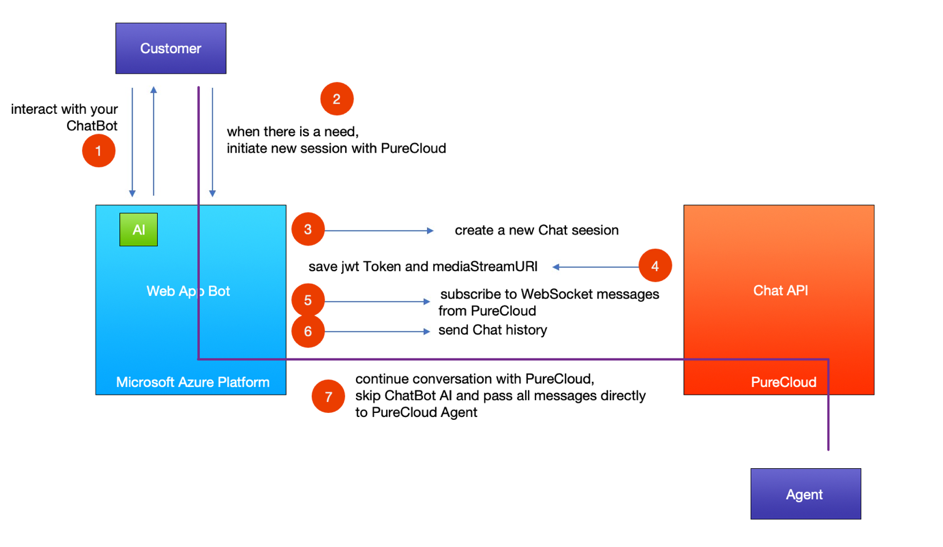
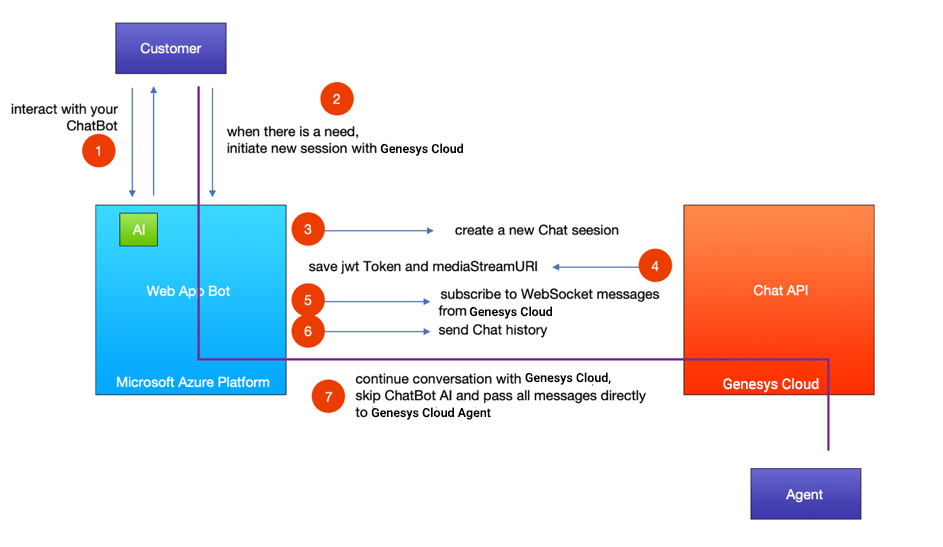
rebrand: 3rd Party Chatbots with Genesys Cloud

diff --git a/source/2019-03-07-3rd-party-chatbots-with-purecloud/index.html.md b/source/2019-03-07-3rd-party-chatbots-with-purecloud/index.html.md
@@ -1,28 +1,28 @@
 ---
-title: 3rd Party Chatbots with PureCloud
+title: 3rd Party Chatbots with Genesys Cloud
 tags: devcenter, howwedoit
 date: 2019-03-07
 author: daniel.szlaski@genesys.com
 ---
 
 
-PureCloud will be introducting [Guest Chat APIs](/api/webchat/guestchat.html) in an upcoming update. They are currently in beta as of this writing. Using these Guest Chat APIs and a little bit of development you can create a fully functional Chat Bot integrated with PureCloud. This will provide a seamless experience for the end Customer (capability: switching between the Bot engine and a real Agent) along with access to multiple channels like Skype, Facebook Messenger, Slack and more.
+Genesys Cloud will be introducting [Guest Chat APIs](/api/webchat/guestchat.html) in an upcoming update. They are currently in beta as of this writing. Using these Guest Chat APIs and a little bit of development you can create a fully functional Chat Bot integrated with Genesys Cloud. This will provide a seamless experience for the end Customer (capability: switching between the Bot engine and a real Agent) along with access to multiple channels like Skype, Facebook Messenger, Slack and more.
 
 ![Bot and Agent View](side-by-side.png)
 
 <iframe width="987" height="564" src="https://www.youtube.com/embed/ZmQDvkmd0gg" frameborder="0" allow="accelerometer; autoplay; encrypted-media; gyroscope; picture-in-picture" allowfullscreen style="margin: 30px auto; display: block;"></iframe>
 
 This solution was built with the help of the Microsoft Bot Framework (hosted in Azure) used as the Web App Bot resource. Microsofts Bot Framework is capable of hosting a C# or NodeJS service that implements for the actual Bot logic. Artificial Intelligence (AI) / Dialog Recognition is built using the [Bot Framework SDK v4](https://docs.microsoft.com/en-us/azure/bot-service/?view=azure-bot-service-4.0). 
-The Bot connection to PureCloud is also handled from the same service, thanks to the Guest Chat API from PureCloud. Source code is available for free and you can clone it from this [BitBucket Repo](https://bitbucket.org/eccemea/mypurecloud-bot/src/master/).
+The Bot connection to Genesys Cloud is also handled from the same service, thanks to the Guest Chat API from Genesys Cloud. Source code is available for free and you can clone it from this [BitBucket Repo](https://bitbucket.org/eccemea/mypurecloud-bot/src/master/).
 
 ## Requirements
   
-* Enable the new Chat API in your PureCloud organization
+* Enable the new Chat API in your Genesys Cloud organization
 * Use alpha UI to be able to respond to the incoming messages from the Chat 
 * [Git](https://git-scm.com) required to edit / push your own version of the Bot
 * A Bitbucket / Github account
 * A queue to transfer your chat requests to
-* Create a Web Chat Deployment in your PureCloud organization. Please follow this [documentation](https://help.mypurecloud.com/articles/add-web-chat-deployment/) ink in case this is not present in your org
+* Create a Web Chat Deployment in your Genesys Cloud organization. Please follow this [documentation](https://help.mypurecloud.com/articles/add-web-chat-deployment/) ink in case this is not present in your org
 * If you want to use the Microsoft Azure Platform, create an account here: (https://portal.azure.com) 
 
 You can find more details about Microsoft Bot Service on this page [link](https://azure.microsoft.com/en-us/services/bot-service)
@@ -46,13 +46,13 @@ server.post('/api/messages', (req, res) => {
 });
 ```
 
-This is the place where all logic / AI should take place. One additional line is required to save history for conversation between Customer and Bot. Once the call is transferred to PureCloud, we will push it as a single message.
+This is the place where all logic / AI should take place. One additional line is required to save history for conversation between Customer and Bot. Once the call is transferred to Genesys Cloud, we will push it as a single message.
 
 ```{"language":"javascript"}
 this.conversationState.history.push('Bot:\t\t My response');
 ```
 
-Once you need to transfer the customer to a real Person (PureCloud agent), we will redirect requests to the "startChat()" function. It's important to pass the current context of the call since that service will send messages back to the customer every time it will receive message in PureCloud.
+Once you need to transfer the customer to a real Person (Genesys Cloud agent), we will redirect requests to the "startChat()" function. It's important to pass the current context of the call since that service will send messages back to the customer every time it will receive message in Genesys Cloud.
 
 ```{"language":"javascript"}
 switch (turnContext.activity.text) {
@@ -64,9 +64,9 @@ switch (turnContext.activity.text) {
     break;
 ```
 
-To initiate a Chat session with PureCloud we use the Guest Chat API (Beta available). Two HTTPs requests are needed to properly start the Chat Session.
+To initiate a Chat session with Genesys Cloud we use the Guest Chat API (Beta available). Two HTTPs requests are needed to properly start the Chat Session.
 
-First, you need to create a Chat Session to your PureCloud organization (you should include your environment as well as your deploymentId, organizationId and queue name where Chat should be directed):
+First, you need to create a Chat Session to your Genesys Cloud organization (you should include your environment as well as your deploymentId, organizationId and queue name where Chat should be directed):
 
 ```{"language":"javascript"}
 let myBody = {
@@ -107,7 +107,7 @@ A successful response looks like the following:
 }
 ```
 
-Once you open a WebSocket connection to the eventStreamUri, all of the relevant events for the conversation will start coming to you and the Chat Session will start being processed by PureCloud.
+Once you open a WebSocket connection to the eventStreamUri, all of the relevant events for the conversation will start coming to you and the Chat Session will start being processed by Genesys Cloud.
 
 ```{"language":"javascript"}
 webSocket = new WebSocket(info.eventStreamUri);
@@ -116,14 +116,14 @@ webSocket = new WebSocket(info.eventStreamUri);
  });
 ```
 
-A Jwt Token is used to send new messages to the PureCloud Chat via `POST /api/v2/webchat/guest/conversations/{conversationId}/members/{memberId}/messages`.
+A Jwt Token is used to send new messages to the Genesys Cloud Chat via `POST /api/v2/webchat/guest/conversations/{conversationId}/members/{memberId}/messages`.
 
-From that moment on, you should verify if PureCloud chat variable is set to true for all incoming messages and skip the Bot logic for responses and route messages directly to the PureCloud Chat.
+From that moment on, you should verify if Genesys Cloud chat variable is set to true for all incoming messages and skip the Bot logic for responses and route messages directly to the Genesys Cloud Chat.
 
-For Production usage, this flag as well as the conversation history with a Bot should be saved in a Database connected directly with a current Bot conversationId tied to the Customer. Bot is active for entire live conversation. It is a middleware, works like a proxy between Customer and PureCloud Agent.
+For Production usage, this flag as well as the conversation history with a Bot should be saved in a Database connected directly with a current Bot conversationId tied to the Customer. Bot is active for entire live conversation. It is a middleware, works like a proxy between Customer and Genesys Cloud Agent.
 
 ## Current Limitations
 
 * Sources available in Bitbucket use global variables and share history entries for all incoming interactions
-* Current implementation uses PureCloud Deployment without Authentication
+* Current implementation uses Genesys Cloud Deployment without Authentication
 
